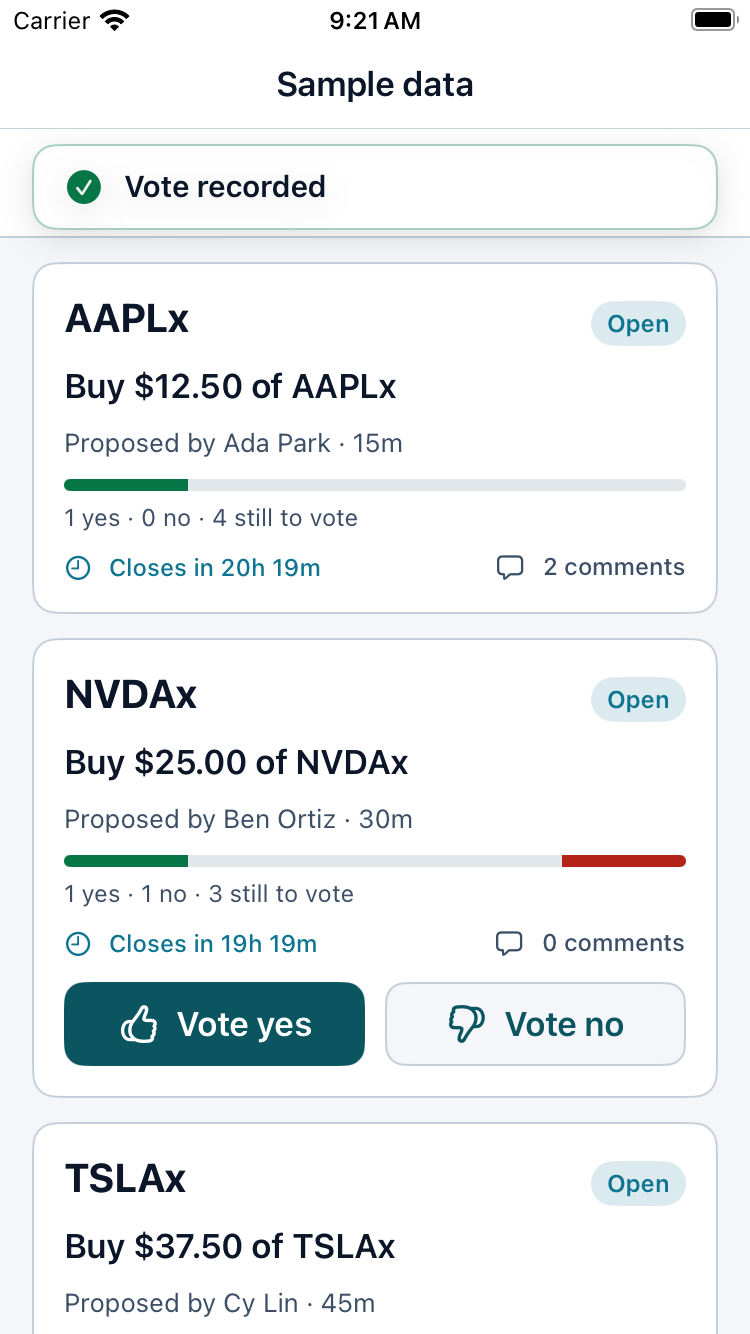
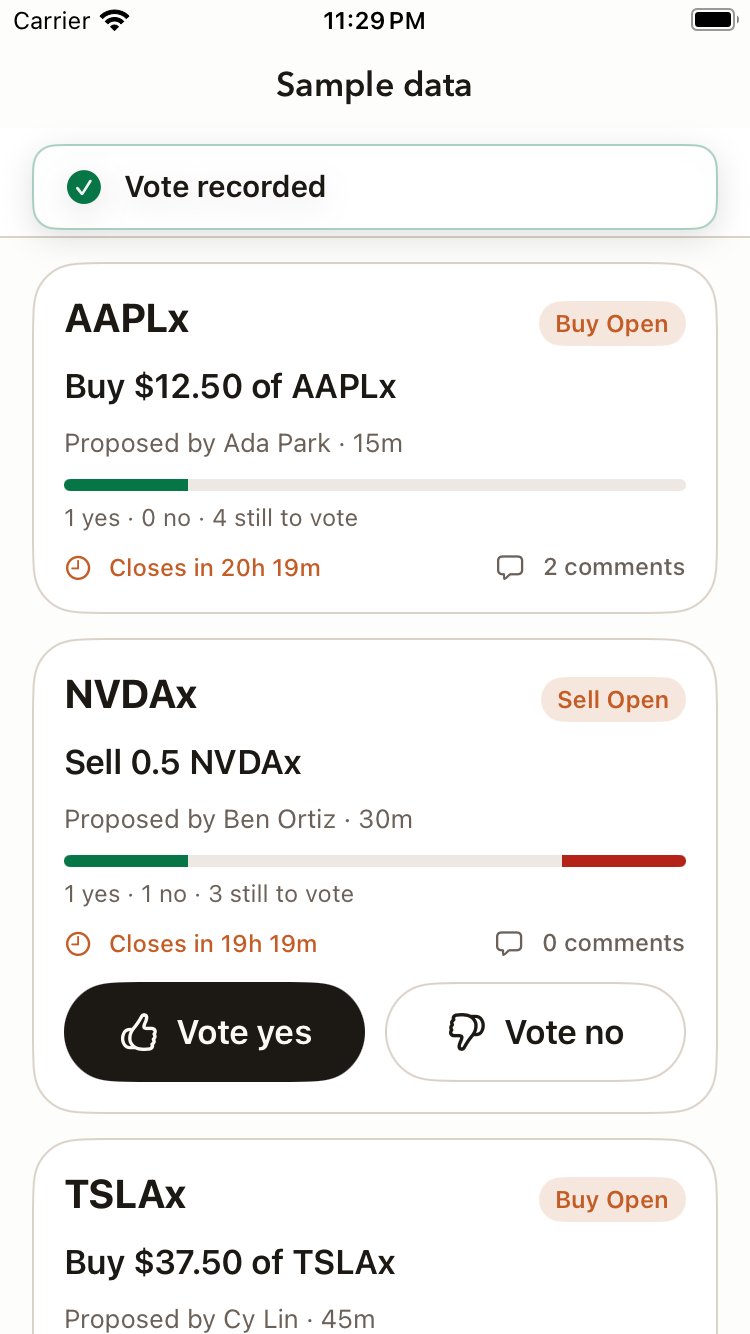
docs(149): refresh QA evidence after rebasing onto main
Sample feed now includes a sell proposal; screenshots and README reflect
migration 000012 and the main-based test runs.

diff --git a/docs/qa/149/README.md b/docs/qa/149/README.md
@@ -1,14 +1,14 @@
 # Proposal feed and comments verification
 
-Issue #149. Base: `oh-yea`. Adds `proposal_comments` (migration 000009), `GET/POST /v1/proposals/{id}/comments`, feed card fields on the group proposal list (`canVote`, `voteSummary`, `commentCount`), `commentCount` on detail, and the SwiftUI card feed, detail thread, and composer.
+Issue #149. Base: `main` (after propose-sell #194). Adds `proposal_comments` (migration 000012), `GET/POST /v1/proposals/{id}/comments`, feed card fields on the group proposal list (`canVote`, `voteSummary`, `commentCount`), `commentCount` on detail, and the SwiftUI card feed, detail thread, and composer. Cards and detail render both sides: "Buy $12.50 of AAPLx" and "Sell 0.5 NVDAx" (token amount at 8 decimals), with a Buy/Sell status chip.
 
 ## Verified
 
-- Backend runtime suite passes with `go test -p 1 ./...` on a dedicated local Compose Postgres database (`monaco_149` / `monaco_149_test`) and fake Privy/Jupiter providers, except two failures that are not from this change: the Jupiter package vet error (`testing.B.Context` needs Go 1.24; module declares 1.23, fixed separately by PR #183; the package passes with `-vet=off`) and `TestOpenTestDB_connectsToDerivedDatabase`, which hard-codes the shared `monaco_test` name. Domain tests pass.
+- Backend suite passes with `go test -vet=off -p 1 ./...` on a dedicated local Compose Postgres database (`monaco_149_test`) and fake Privy/Jupiter providers, with main's home-dashboard test compile fix (#199) applied locally only. The one failure, `TestOpenTestDB_connectsToDerivedDatabase`, hard-codes the shared `monaco_test` name. Domain tests pass.
 - Comment HTTP tests cover: member post and reply, oldest-first thread with `parentId`, empty thread, non-member 404 on list and post (no text leaked), missing auth 401, whitespace-only / missing / over 1,000 code points / over the 16 KiB byte cap / NUL / malformed JSON / malformed or unknown parent id bodies (400, nothing stored), exactly 1,000 code points accepted, reply to a comment on another proposal 400, unknown or malformed proposal id 404, 11th comment in a minute 429 with `Retry-After`, and list/detail card fields before and after voting.
-- 73 host mobile-core tests pass (`swift test`): DTO decoding (feed card, legacy list payload, detail), comment decode, thread nesting, orphan and cycle handling, draft length rule, formatters, feed copy audit, client paths, bodies, and error statuses.
+- 89 host mobile-core tests pass (`swift test`): DTO decoding (feed card, legacy list payload, detail), comment decode, thread nesting, orphan and cycle handling, draft length rule, formatters (including sell share counts and headlines), feed copy audit, client paths, bodies, and error statuses.
 - Native Debug simulator build passes with a public compile-only Privy configuration.
-- XCUITest `ProposalFeedSampleUITests` passes on the SimSlim-prepared simulator (iOS 18.0) using the Debug-only `-MonacoProposalFeedSample` launch argument, which swaps in an in-memory service. It votes yes from a card, scrolls through 20 open cards, opens the thread, posts a comment, replies to a comment, and checks that Post stays disabled for a whitespace-only draft. Screenshots below come from that run.
+- XCUITest `ProposalFeedSampleUITests` passes on the SimSlim-prepared simulator (iOS 18.0) using the Debug-only `-MonacoProposalFeedSample` launch argument, which swaps in an in-memory service. The sample feed includes a sell proposal. It votes yes from a card, scrolls through 20 open cards, opens the thread, posts a comment, replies to a comment, and checks that Post stays disabled for a whitespace-only draft. Screenshots below come from that run.
 
 ## Still required before merge
 
